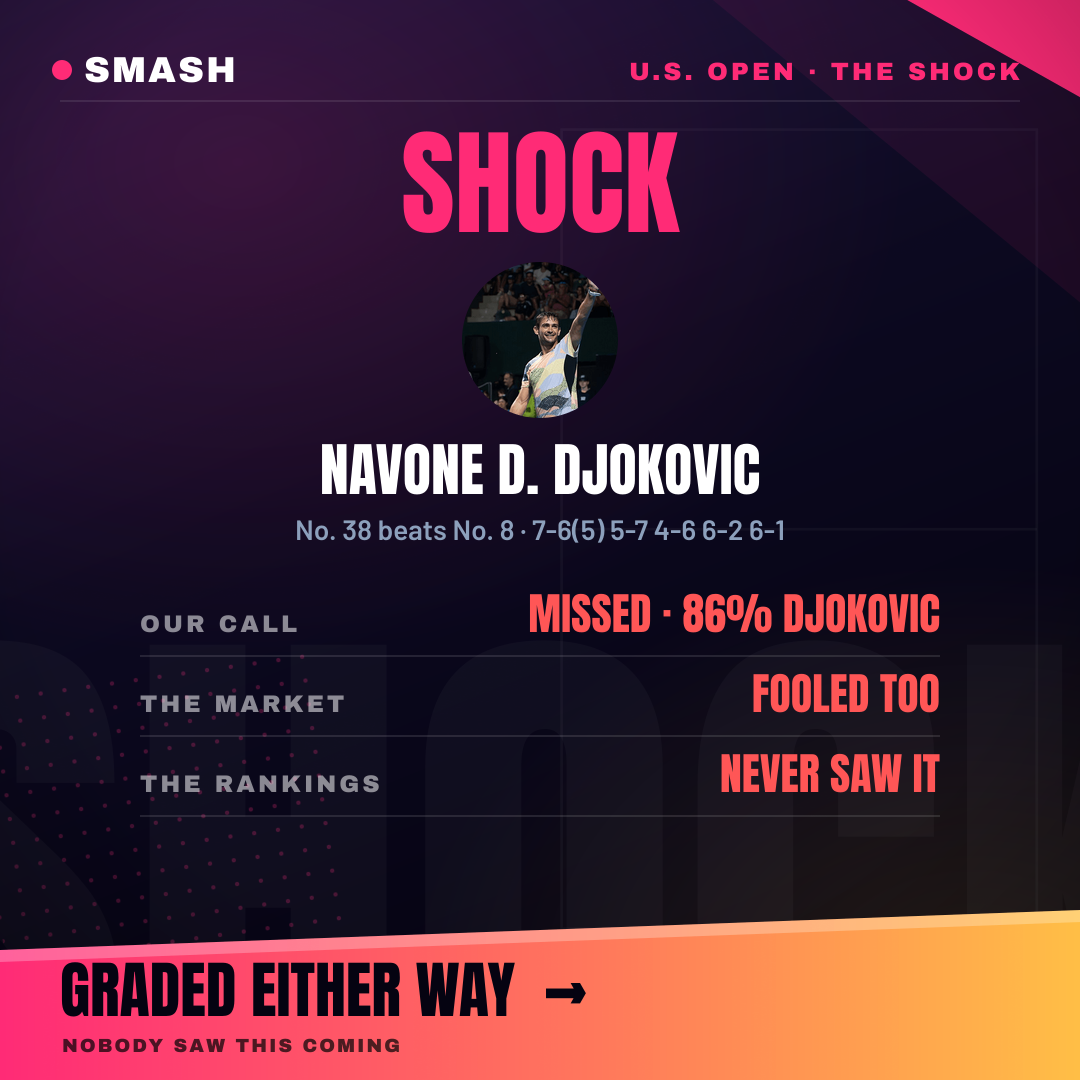
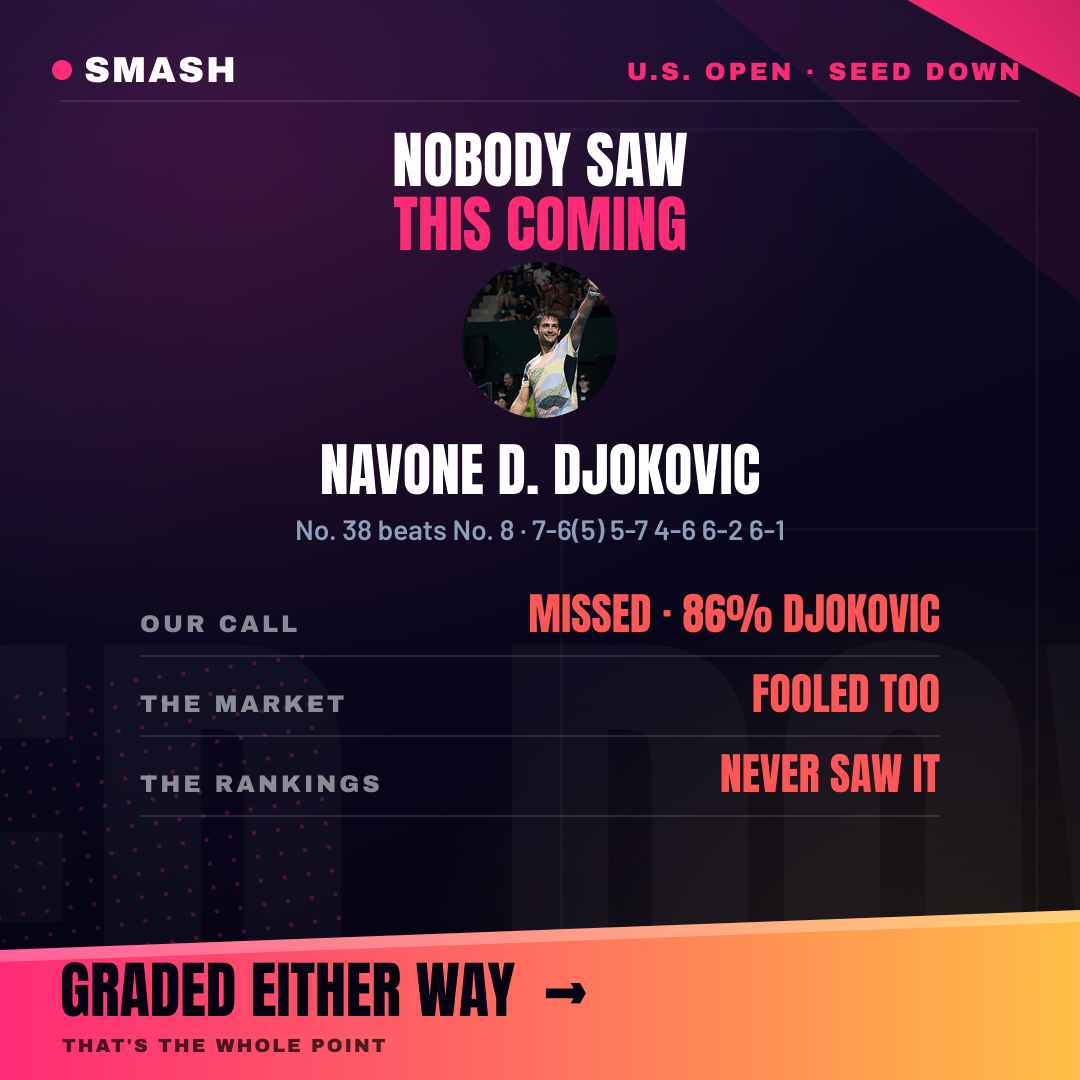
shareable copy change

diff --git a/data-pipeline/buildShareAssets.js b/data-pipeline/buildShareAssets.js
@@ -1699,16 +1699,25 @@ async function upsetAutopsyCard(m, wRank, lRank, tour, file) {
   const wid = m.winner === m.p1 ? m.p1 : m.p2;
   const comps = [{ input: await circlePhoto(photoPath(tour, wid), 156), left: SQ / 2 - 78, top: 262 }];
   const matchup = `${last(wName).toUpperCase()} D. ${last(lName).toUpperCase()}`;
+  // 62 is what the two lines fit in vertically between the masthead rule and
+  // the photo; fitT only ever shrinks it further if the type is wider than
+  // the canvas.
+  const autopsyTitleSize = fitT('anton', 'THIS COMING', 62, SQ - 160);
   const base = `<svg width="${SQ}" height="${SQ}" xmlns="http://www.w3.org/2000/svg"><defs>${sDefs(a)}</defs>
-  ${sStage(a, SQ, SQ, { ghost: 'SHOCK' })}
-  ${sMast(SQ, `${m.event || 'Tour'} · The Shock`, a)}
-  ${T('anton', 'SHOCK', SQ / 2, 232, 116, { anchor: 'middle', fill: a.key }).svg}
+  ${sStage(a, SQ, SQ, { ghost: 'SEED DOWN' })}
+  ${sMast(SQ, `${m.event || 'Tour'} · Seed Down`, a)}
+  ${/* Two lines, not one. The headline slot was built for a single word at
+       116pt; the sentence is the better title but it cannot be set that way,
+       so it takes the same block as a stacked pair, sized off the LONGER line
+       so the two always match. The block still clears the photo below it. */''}
+  ${T('anton', 'NOBODY SAW', SQ / 2, 186, autopsyTitleSize, { anchor: 'middle', fill: C_WHITE }).svg}
+  ${T('anton', 'THIS COMING', SQ / 2, 250, autopsyTitleSize, { anchor: 'middle', fill: a.key }).svg}
   ${T('anton', matchup, SQ / 2, 494, fitT('anton', matchup, 58, SQ - 140), { anchor: 'middle', fill: C_WHITE }).svg}
   ${T('body', `No. ${wRank} beats No. ${lRank}${m.score ? ` · ${m.score}` : ''}`, SQ / 2, 540, fitT('body', `No. ${wRank} beats No. ${lRank}${m.score ? ` · ${m.score}` : ''}`, 28, SQ - 160), { anchor: 'middle', fill: C_MUTE }).svg}
   ${statRow(632, 'OUR CALL', weCalled ? `CALLED IT · ${wePct}% ${last(wName).toUpperCase()}` : `MISSED · ${wePct}% ${last(lName).toUpperCase()}`, weCalled ? '#3ddc84' : '#ff5c5c')}
   ${statRow(712, 'THE MARKET', marketCalled == null ? 'NO LINE' : marketCalled ? 'SAW IT COMING' : 'FOOLED TOO', marketCalled == null ? C_WHITE : marketCalled ? '#3ddc84' : '#ff5c5c')}
   ${statRow(792, 'THE RANKINGS', 'NEVER SAW IT', '#ff5c5c')}
-  ${sBar(SQ, SQ, 'GRADED EITHER WAY  →', a, { sub: 'NOBODY SAW THIS COMING' })}
+  ${sBar(SQ, SQ, 'GRADED EITHER WAY  →', a, { sub: "THAT'S THE WHOLE POINT" })}
   </svg>`;
   await render(file, base, comps);
 }
